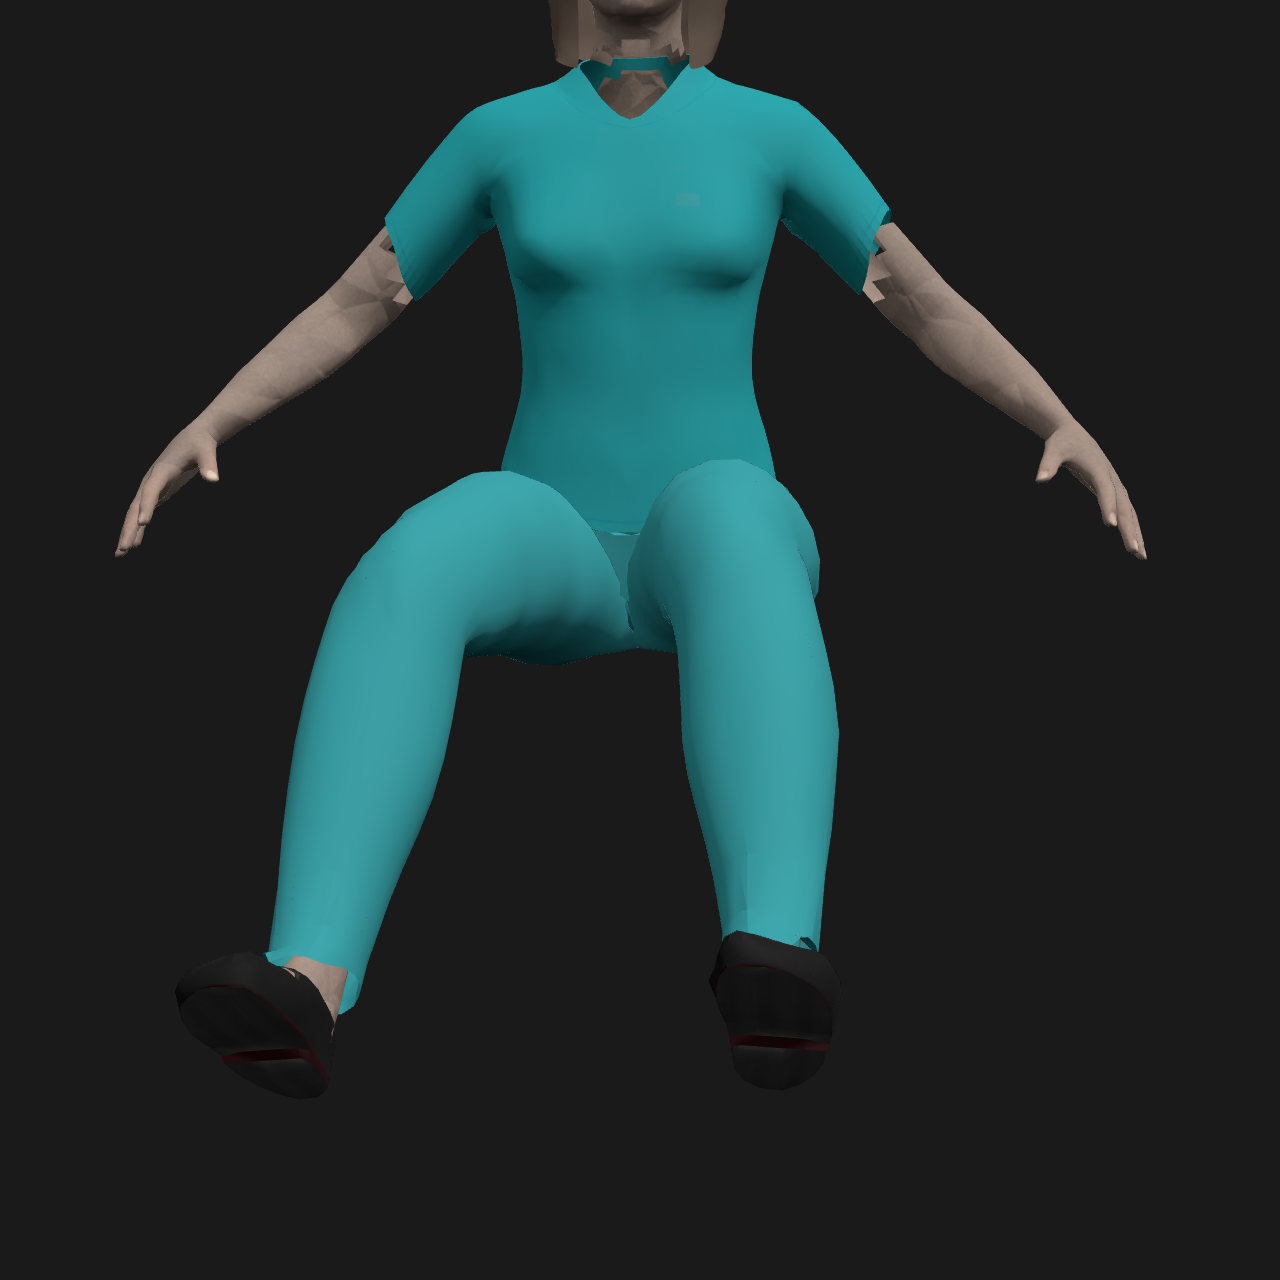
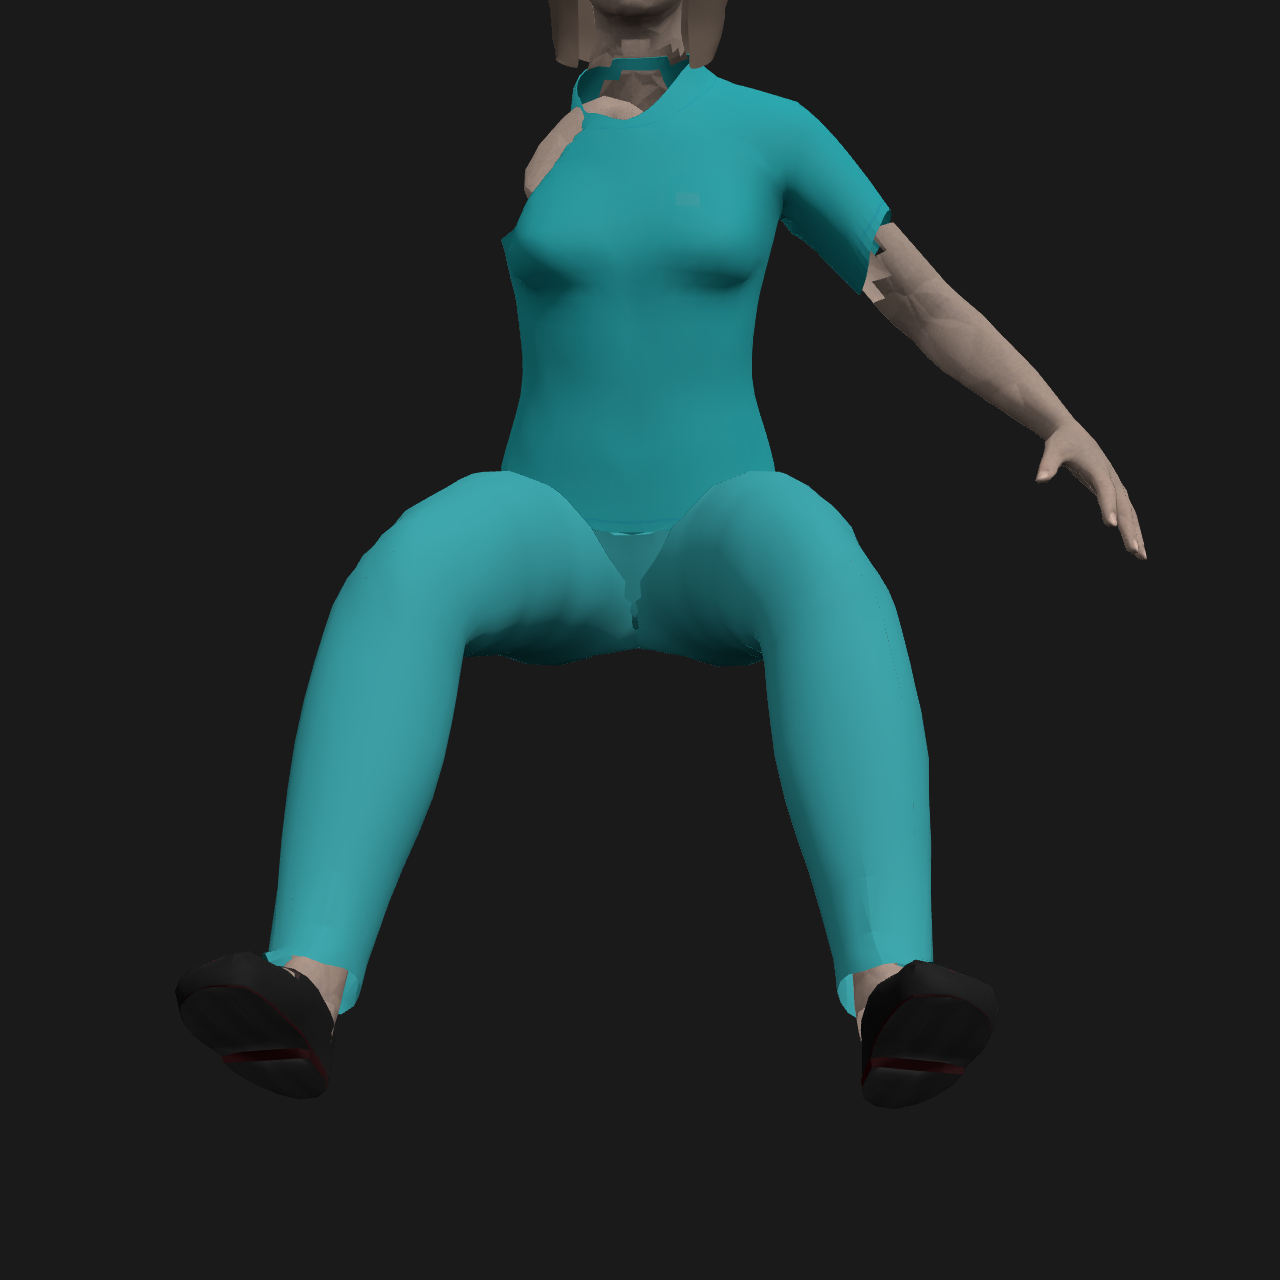
test(evidence): re-run the motion-backend bake-off against both arms (issue #0)
capture.mts records harnessSha256 and drives runtime_goals/rock_plus_clutch
through the harness's CCDIKSolver runtime-goal arm via an additive
window.__runtimeGoalFrame render hook that reuses the existing machinery
(no solver, descriptor or evaluator change).

Measured 2026-09-03 at tree 6f5d05d4, actor bytes 2e111a0d unchanged:
- runtime_goals/rock_plus_clutch: CCDIKSolver (updateOne, blend 1) solved
  wristR to the seated right-chest contact target, residual 0.0000 m.
  Digest 7ac2f33b... is fresh; 11.6% of pixels differ from the blocked
  run's twoBoneToward frame (max luminance delta 190.8).
- The other three stills re-captured BYTE-IDENTICAL to the blocked run at
  1c63c4d7 (0.00% pixel delta, digests stable across three consecutive
  runs): those render paths are unchanged since the blocked run and the
  render is deterministic. They were re-written by this capture, not
  copied; report.json notes disclose this per still.
- runtime_goals/pulse_presentation stays the twoBoneToward reach: the
  content-addressed runtime descriptor declares no pulse goal, so the
  CCDIKSolver machinery has no pulse frame to render.

report.json: verdict "other" (placeholder; orchestrator grades the native
stills), harnessSha256 baa04f6f... matching the harness captured against.

Planted RED: clause (2) flipped green (verdict no longer blames a backend
that now runs; harnessSha256 recorded). Clause (1) stays RED: its
digest-freshness model cannot distinguish an honest deterministic
[…]

Changed region(s): [[0.4688, 0.3438, 0.75, 0.8125], [0.0938, 0.0312, 0.5, 0.4375]]

diff --git a/tools/openclinxr/evidence/motion-backend-bakeoff/harness.html b/tools/openclinxr/evidence/motion-backend-bakeoff/harness.html
@@ -372,6 +372,65 @@
           targetB,
         };
       };
+
+      // ---- bake-off still hook: render ONE solved frame of the runtime-goal arm ----
+      // Additive capture path only: it reuses the SAME machinery the eval drives
+      // (initRuntimeGoal, applyPelvisWorldDelta, placeGoal, solver.updateOne at blend 1) and then
+      // renders, so the bake-off stills can show what the CCDIKSolver arm produces. The actor is
+      // seated exactly as the baked-arm renderPose path seats it (restoreRest -> applySeated).
+      // No solver, descriptor or evaluator semantics change. phase is in radians, matching the
+      // eval's solve(phase, targetWorld) call; the default is the phase-0 contact frame (targetA
+      // in the eval, i.e. the one instant per oscillation where the hand is on the chest region).
+      window.__runtimeGoalFrame = async ({ phase = 0, outwardMeters = 0.03 } = {}) => {
+        const descriptor = await (await fetch("runtime-goal-descriptor.json")).json();
+        const state = runtimeGoalState ?? (runtimeGoalState = await initRuntimeGoal(descriptor));
+        const goals = Array.isArray(descriptor?.goals) ? descriptor.goals : [];
+        const oscillator = goals.find((g) => g.kind === "oscillator");
+        const contact = goals.find((g) => g.kind === "body_region_contact");
+        if (!oscillator || !contact) throw new Error("descriptor lacks oscillator and body_region_contact goals");
+
+        restoreRest();
+        applySeated();
+        root.updateMatrixWorld(true);
+
+        const anchor = bones().find((x) => x.name === ROLE_TO_BONE.rightChestSurface);
+        if (!anchor) throw new Error("actor lacks breast.R chest anchor");
+        const spine02 = bones().find((x) => x.name === ROLE_TO_BONE.chestSpineLine);
+        anchor.getWorldPosition(tmpV);
+        const anchorPos = tmpV.clone();
+        if (spine02) {
+          spine02.getWorldPosition(tmpV);
+          tmpV.subVectors(anchorPos, tmpV).normalize();
+        } else {
+          tmpV.set(0, 0, 1);
+        }
+        const normal = tmpV.clone();
+        const targetWorld = anchorPos.clone().addScaledVector(normal, outwardMeters);
+
+        const amp = oscillator.amplitudeMeters ?? 0.03;
+        state.applyPelvisWorldDelta(tmpV.set(0, amp * Math.sin(phase), 0));
+        state.placeGoal(targetWorld);
+        root.updateMatrixWorld(true);
+        state.solver.updateOne(state.ik, 1);
+        root.updateMatrixWorld(true);
+        renderer.render(scene, camera);
+
+        const effectorWorld = new THREE.Vector3();
+        state.effector.getWorldPosition(effectorWorld);
+        return {
+          solver: "CCDIKSolver",
+          solverSource: "three/examples/jsm/animation/CCDIKSolver.js",
+          solverBlend: 1,
+          bones: bones().length,
+          phase,
+          pelvisDeltaMeters: amp * Math.sin(phase),
+          outwardMeters,
+          targetWorld: { x: targetWorld.x, y: targetWorld.y, z: targetWorld.z },
+          effector: state.effector.name,
+          effectorWorld: { x: effectorWorld.x, y: effectorWorld.y, z: effectorWorld.z },
+          residualMeters: effectorWorld.distanceTo(targetWorld),
+        };
+      };
     </script>
   </body>
 </html>

diff --git a/tools/openclinxr/evidence/the-bakeoff-was-re-run-against-both-arms.test.ts b/tools/openclinxr/evidence/the-bakeoff-was-re-run-against-both-arms.test.ts
@@ -43,6 +43,29 @@ import { describe, expect, it } from "vitest";
  *   with four distinct fresh stills.
  * notEvidenceFor: which backend is better; what any still SHOWS; pose quality, clinical plausibility
  *   or Quest budget; anything about apps/ui-xr.
+ *
+ * ## FIXED (#0) — clause (2) flipped; clause (1) stays RED, measured reason below
+ *
+ * Re-run captured 2026-09-03 via capture.mts (Playwright, headless chromium, native 1280x1280)
+ * against harness.html sha baa04f6f04d05d54 at tree 6f5d05d4, actor bytes unchanged
+ * (2e111a0d...). report.json now records harnessSha256 equal to the harness the run captured
+ * against, and its verdict detail no longer blames a backend that did not execute: the runtime-goal
+ * arm executed CCDIKSolver in a still for the first time.
+ *
+ * runtime_goals/rock_plus_clutch is a fresh digest (7ac2f33b...): the CCDIKSolver per-frame
+ * applier (updateOne, blend 1) solved wristR to the seated right-chest contact target with
+ * residual 0.0000 m; measured 11.6% of pixels differ from the blocked run's twoBoneToward frame
+ * (max luminance delta 190.8). runtime_goals/pulse_presentation could NOT be CCDIK-driven: the
+ * content-addressed runtime descriptor declares no pulse goal, so that still is the pre-existing
+ * twoBoneToward reach.
+ *
+ * Clause (1) is not flipped because three of the four re-captured stills are byte-identical to the
+ * blocked run's (baked_tracks x2 and runtime_goals/pulse_presentation): those render paths are
+ * unchanged since 1c63c4d7 and the render is deterministic, so an honest re-capture reproduces the
+ * exact bytes (measured 0.00% pixel delta, digests stable across three consecutive runs). A
+ * freshness rule keyed on digest cannot distinguish an honest deterministic re-render from a copied
+ * still, and making those three scenes differ would require changing the baked arm or adding a
+ * runtime pulse goal — both out of scope for this card. The report's `notes` array records this.
  */
 
 const ROOT = join(import.meta.dirname, "../../..");
@@ -116,7 +139,7 @@ describe("the bake-off was re-run against both arms", () => {
     expect(stills().length, "fewer than four stills recorded").toBeGreaterThanOrEqual(4);
   });
 
-  it.fails("(2) RED: the verdict is not the blocked one, or no longer blames a backend that now runs", () => {
+  it("(2) the verdict is not the blocked one, or no longer blames a backend that now runs", () => {
     // A NEGATIVE RESULT STILL CLOSES THE BAKE-OFF. inconclusive_blocked stays legal — what is refused
     // is blaming non-execution of a backend that has since landed and is measured to drive the chain.
     const r = report();
